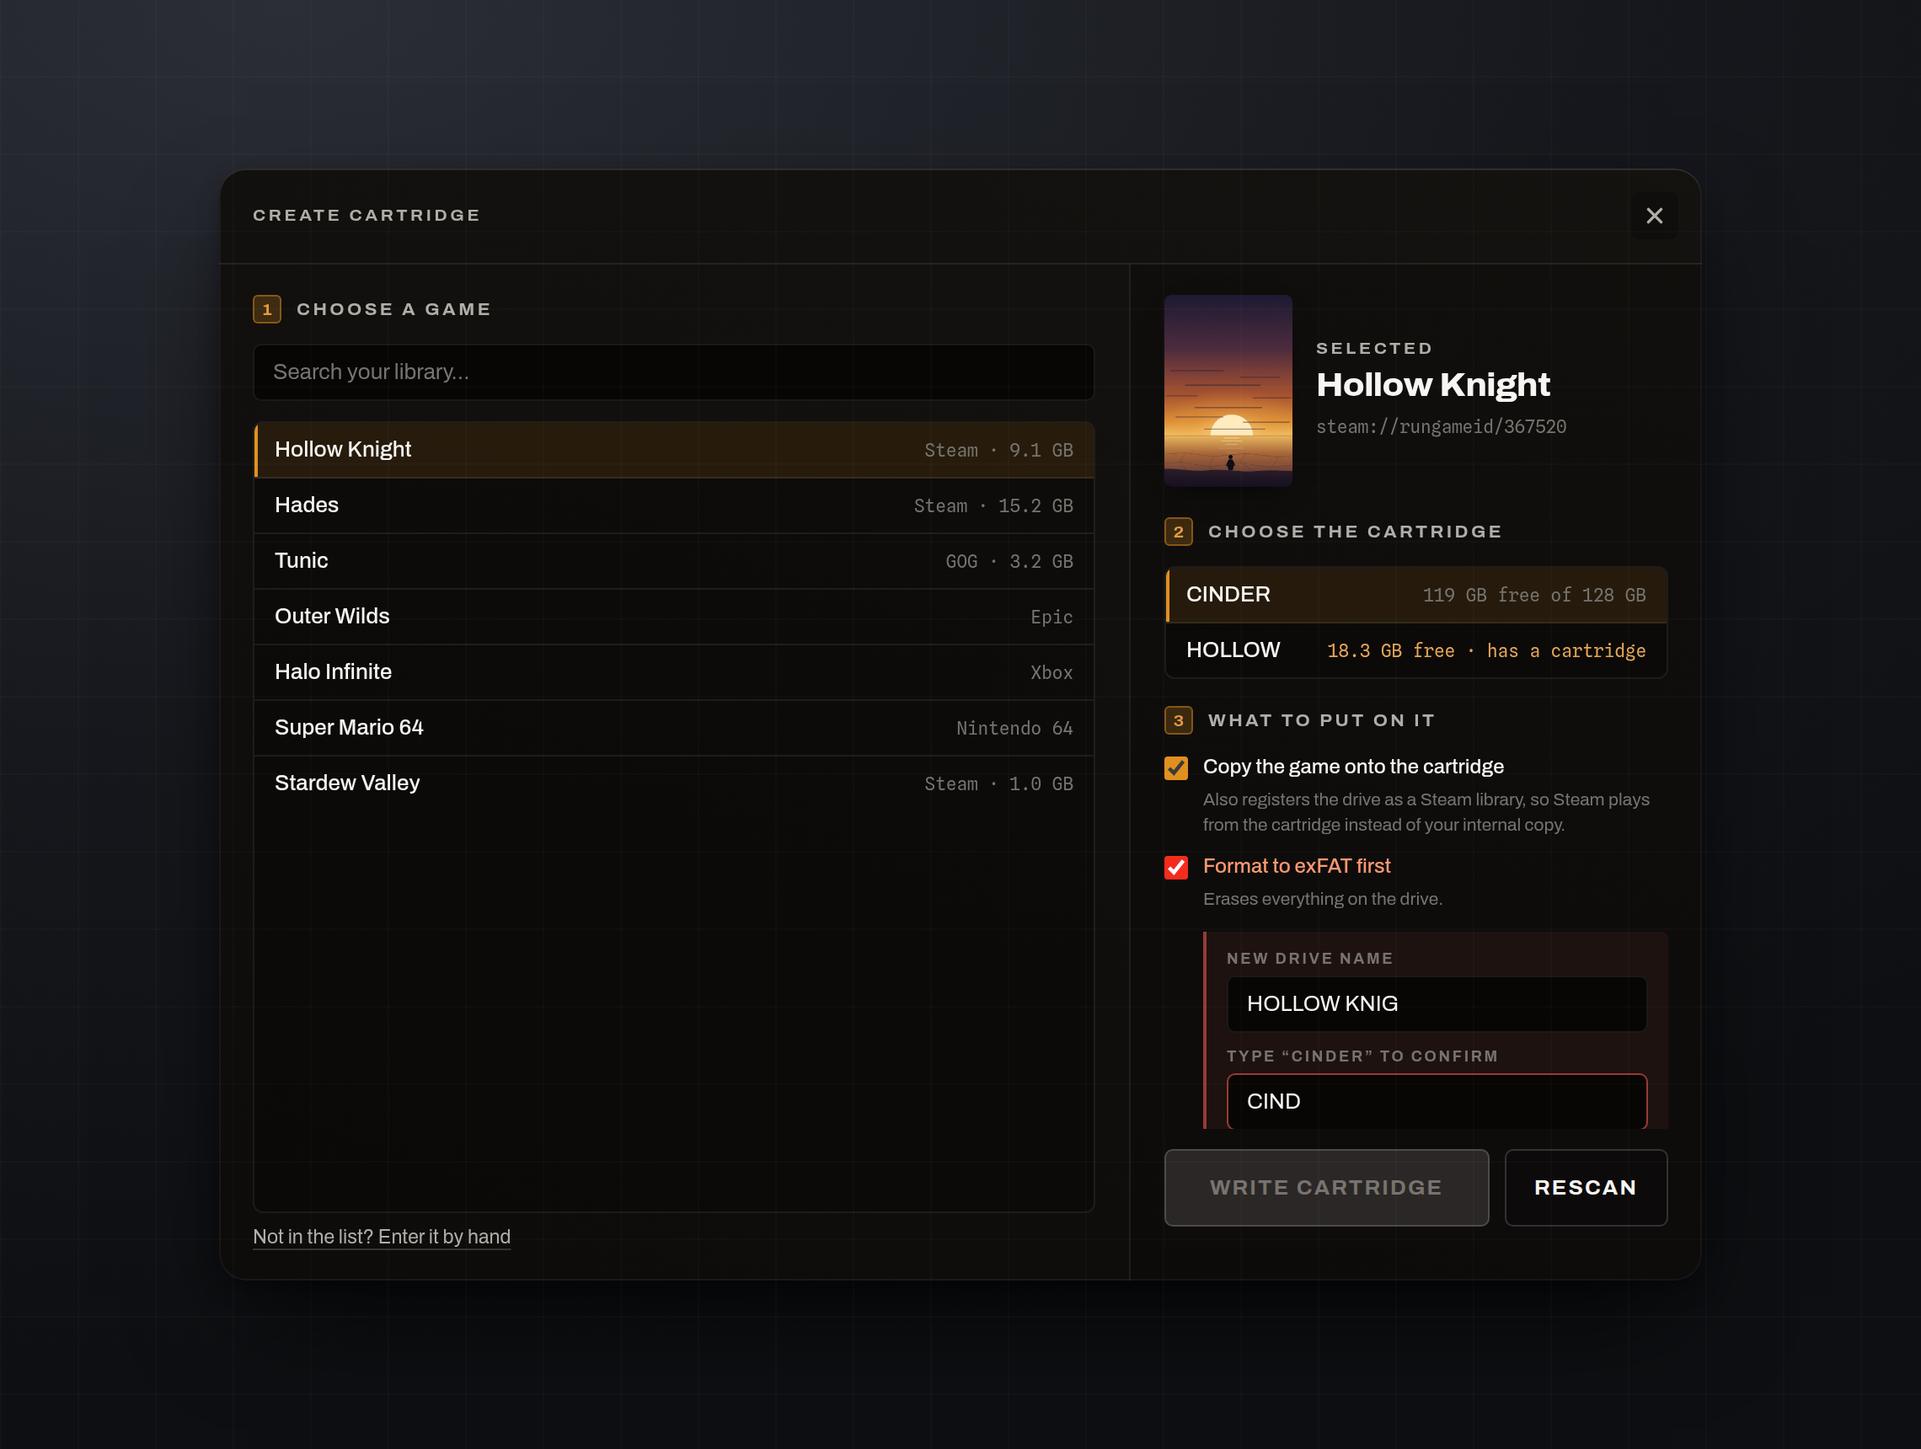
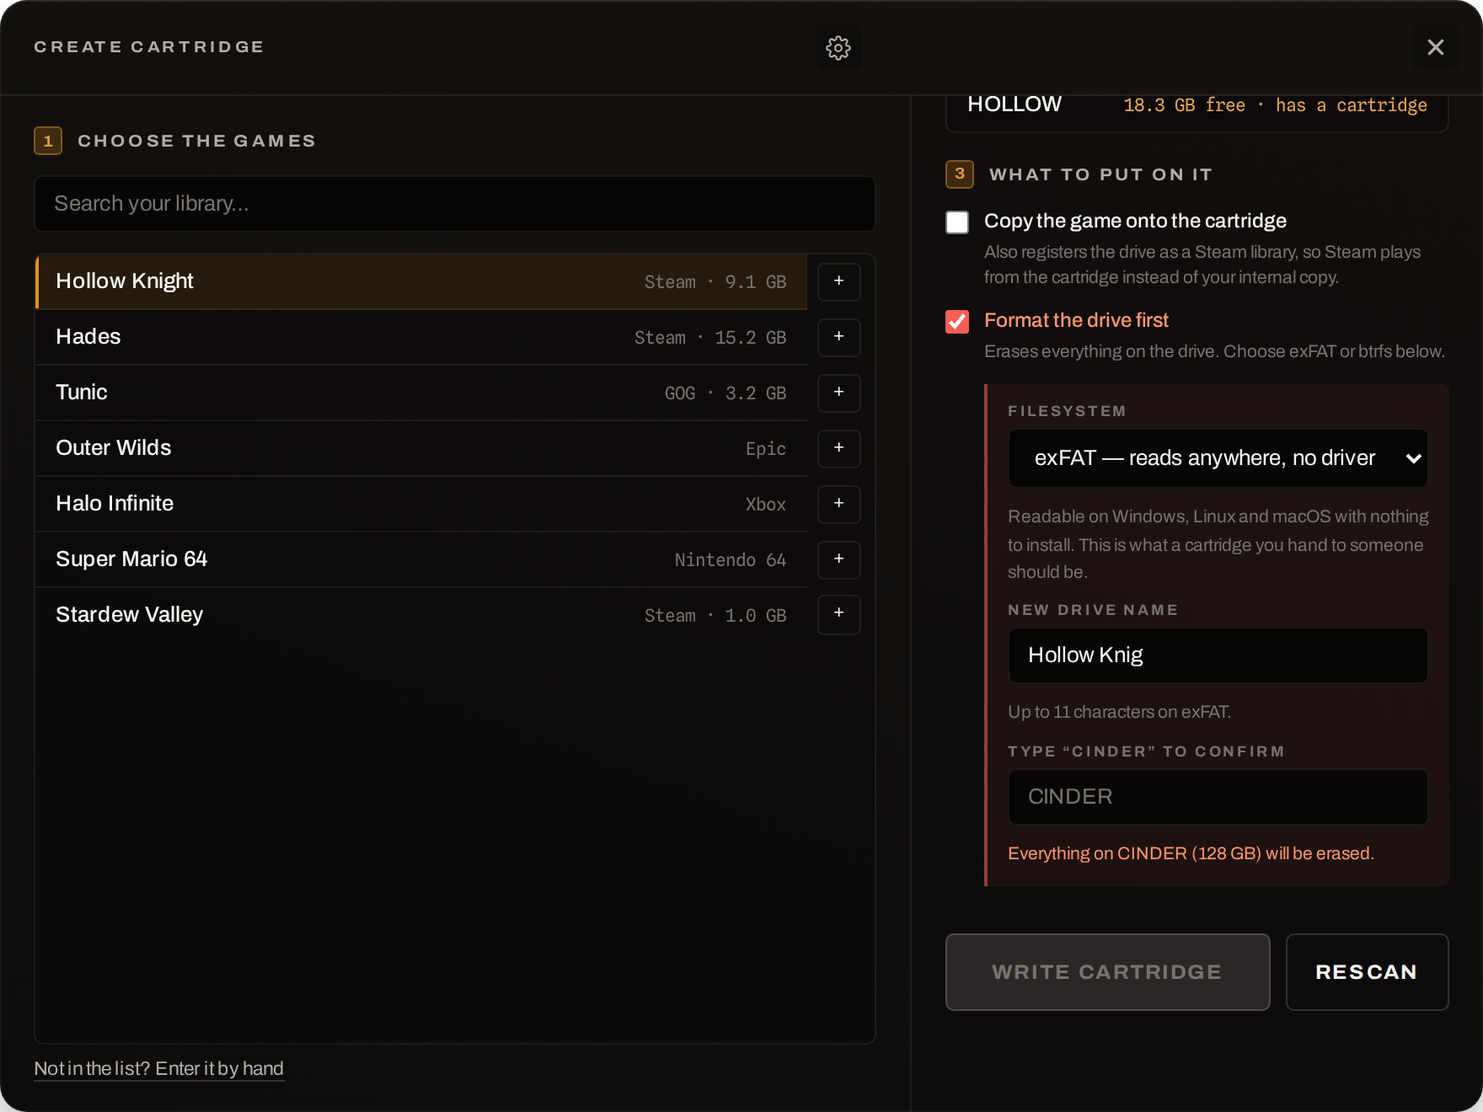
exFAT is the default again; btrfs is for enthusiasts
A cartridge is meant to be plugged into whatever machine is in front of you,
and only exFAT is readable everywhere with nothing to install. btrfs needs
WinBtrfs — a third-party kernel driver — before Windows can read it at all,
so a btrfs cartridge only opens on machines that have been prepared for it.

Its two benefits are also thinner than they sound here: TRIM only reaches
the drive when the USB bridge speaks UASP and passes UNMAP through, which
many enclosures do not, and game data is already compressed, so zstd buys
single-digit percentages for CPU on every read. A cartridge is written once
and read for years, which is the workload flash wear cares least about.

btrfs stays available, chosen deliberately, with the wizard saying plainly
what it costs.

The drive name follows the filesystem, which is what makes the choice
visible: default_label_for() keeps within the chosen filesystem's own limit,
so "Hollow Knight" becomes "Hollow Knig" on exFAT's 11 characters and stays
whole on btrfs. The wizard mirrors that — the field's maxlength and hint
follow the picker, and a name that was typed is never overwritten by
switching filesystem, only trimmed if the new one cannot hold it.

check_label() now validates against the default filesystem, the strict one,
so a label it accepts works on either.

Claude-Session: https://claude.ai/code/session_01UShoVm3hB7q7q97ejb4FtL

diff --git a/tauri-ui/app/src/create.js b/tauri-ui/app/src/create.js
@@ -57,6 +57,8 @@ const el = {
   optFormat: document.getElementById("opt-format"),
   formatFields: document.getElementById("format-fields"),
   formatFilesystem: document.getElementById("format-filesystem"),
+  filesystemHint: document.getElementById("filesystem-hint"),
+  labelHint: document.getElementById("label-hint"),
   formatLabel: document.getElementById("format-label"),
   formatConfirm: document.getElementById("format-confirm"),
   formatWarning: document.getElementById("format-warning"),
@@ -106,6 +108,8 @@ let building = false;
 /** Candidates for what Play should start, when copying a non-Steam game. */
 let exeCandidates = [];
 let selectedCoverSource = null;
+/** True while the drive name is the one we derived, not one that was typed. */
+let labelIsOurs = true;
 /** What the user has switched on. Offline until they say otherwise. */
 let settings = { steamgriddbEnabled: false, steamgriddbApiKey: "" };
 /** Artwork chosen for the collection: { path, preview }. */
@@ -667,8 +671,25 @@ function refreshFormatFields() {
       : "Choose a drive first.";
   }
 
-  if (!el.formatLabel.value) {
-    el.formatLabel.value = defaultLabel(intent()?.title ?? "");
+  const filesystem = el.formatFilesystem.value;
+  el.filesystemHint.textContent =
+    filesystem === "btrfs"
+      ? "Windows cannot read btrfs without WinBtrfs installed, so this cartridge will only open on machines that have it. Choose exFAT if it is going anywhere."
+      : "Readable on Windows, Linux and macOS with nothing to install. This is what a cartridge you hand to someone should be.";
+
+  // The name field follows the filesystem: exFAT allows 11 characters, btrfs
+  // has room for the whole title.
+  const limit = filesystem === "btrfs" ? 64 : 11;
+  el.formatLabel.maxLength = limit;
+  el.labelHint.textContent = `Up to ${limit} characters on ${formatFilesystemLabel(filesystem)}.`;
+
+  if (!el.formatLabel.value || labelIsOurs) {
+    el.formatLabel.value = defaultLabel(intent()?.title ?? "", filesystem);
+    labelIsOurs = true;
+  } else if (el.formatLabel.value.length > limit) {
+    // Switching to the stricter filesystem must not leave a name it will
+    // refuse in a field the user can no longer see the end of.
+    el.formatLabel.value = el.formatLabel.value.slice(0, limit).trim();
   }
 }
 
@@ -676,15 +697,15 @@ function formatFilesystemLabel(filesystem) {
   return filesystem === "exfat" ? "exFAT" : "btrfs";
 }
 
-/** Mirrors create.rs's default_label so the field starts where it would. */
-function defaultLabel(title) {
+/** Mirrors create.rs's default_label_for so the field starts where it would. */
+function defaultLabel(title, filesystem) {
+  const limit = filesystem === "btrfs" ? 64 : 11;
   const cleaned = title
     .replace(/[^A-Za-z0-9]+/g, " ")
     .trim()
-    .slice(0, 11)
-    .trim()
-    .toUpperCase();
-  return cleaned || "CARTRIDGE";
+    .slice(0, limit)
+    .trim();
+  return cleaned || "Cartridge";
 }
 
 /* -------------------------------------------------------------- SteamGridDB */
@@ -1127,9 +1148,17 @@ el.optFormat.addEventListener("change", () => {
   refreshOptions();
   refreshCreateButton();
 });
-el.formatFilesystem.addEventListener("change", refreshCreateButton);
+el.formatFilesystem.addEventListener("change", () => {
+  refreshFormatFields();
+  refreshCreateButton();
+});
+
 el.formatConfirm.addEventListener("input", refreshCreateButton);
-el.formatLabel.addEventListener("input", refreshCreateButton);
+el.formatLabel.addEventListener("input", () => {
+  // Once it has been typed in, changing the filesystem must not overwrite it.
+  labelIsOurs = false;
+  refreshCreateButton();
+});
 el.create.addEventListener("click", writeCartridge);
 el.rescan.addEventListener("click", async () => {
   status("Rescanning…");
@@ -1291,7 +1320,7 @@ async function demoInvoke(command, args) {
         autorunWritten: true,
         icon: null,
         formatted: args.request.formatDrive,
-        formattedFilesystem: args.request.formatFilesystem || "btrfs",
+        formattedFilesystem: args.request.formatFilesystem || "exfat",
         gameCopied: args.request.copyGame,
         bytesCopied: args.request.copyGame ? 9_106_886_656 : 0,
         registeredWithSteam: args.request.copyGame && Boolean(args.request.appId),

diff --git a/tauri-ui/app/create.html b/tauri-ui/app/create.html
@@ -158,7 +158,7 @@
             <input id="opt-format" type="checkbox" />
             <span class="opt__body">
               <span class="opt__label">Format the drive first</span>
-              <span class="opt__hint">Erases everything on the drive. Choose btrfs or exFAT below.</span>
+              <span class="opt__hint">Erases everything on the drive. Choose exFAT or btrfs below.</span>
             </span>
           </label>
 
@@ -166,15 +166,17 @@
             <label class="field">
               <span class="field__label">Filesystem</span>
               <select id="format-filesystem">
-                <option value="btrfs">btrfs (best for NVMe cartridges)</option>
-                <option value="exfat">exFAT (best for broad removable-media compatibility)</option>
+                <option value="exfat" selected>exFAT — reads anywhere, no driver</option>
+                <option value="btrfs">btrfs — TRIM and compression, Linux only unless WinBtrfs is installed</option>
               </select>
             </label>
+            <p class="field__hint" id="filesystem-hint"></p>
             <label class="field">
               <span class="field__label">New drive name</span>
               <input id="format-label" type="text" maxlength="11" autocomplete="off"
                      spellcheck="false" />
             </label>
+            <p class="field__hint" id="label-hint"></p>
             <label class="field">
               <span class="field__label" id="confirm-label">Type the current name to confirm</span>
               <input id="format-confirm" type="text" autocomplete="off" spellcheck="false"

diff --git a/core/src/format.rs b/core/src/format.rs
@@ -1,4 +1,4 @@
-//! Formatting a drive to btrfs or exFAT.
+//! Formatting a drive to exFAT or btrfs.
 //!
 //! This is the only code in the project that destroys data, so it is built to
 //! refuse rather than to succeed. Four things must all hold before a single
@@ -10,10 +10,20 @@
 //!   3. the caller echoed the drive's current label back exactly;
 //!   4. formatting was explicitly asked for, per cartridge. It is never implied.
 //!
-//! btrfs stays the default because it supports TRIM (discard=async mount option)
-//! and transparent zstd compression, which meaningfully improve the lifespan and
-//! effective capacity of NVMe drives. exFAT remains available for broader
-//! removable-media compatibility.
+//! **exFAT is the default**, because the point of a cartridge is that it works
+//! in whatever machine it is plugged into: Windows, Linux and macOS all read it
+//! with no driver to install.
+//!
+//! btrfs is offered for people who want it — it brings TRIM (`discard=async`)
+//! and transparent zstd compression — but it is a deliberate choice, not a
+//! default. Windows cannot read btrfs without [WinBtrfs], a third-party kernel
+//! driver, and a cartridge that needs a driver installed first is not really a
+//! cartridge. The two headline benefits are also thinner than they look here: a
+//! USB bridge only passes TRIM through when it speaks UASP and honours UNMAP,
+//! and game data is already compressed, so zstd buys single-digit percentages
+//! for CPU on every read.
+//!
+//! [WinBtrfs]: https://github.com/maharmstone/btrfs
 
 use std::path::Path;
 use std::process::Command;
@@ -27,12 +37,13 @@ const EXFAT_MAX_LABEL: usize = 11;
 #[serde(rename_all = "lowercase")]
 pub enum Filesystem {
     #[default]
-    Btrfs,
     Exfat,
+    Btrfs,
 }
 
 impl Filesystem {
-    fn label_limit(self) -> usize {
+    /// Longest volume label this filesystem will take.
+    pub fn label_limit(self) -> usize {
         match self {
             Self::Btrfs => BTRFS_MAX_LABEL,
             Self::Exfat => EXFAT_MAX_LABEL,
@@ -84,7 +95,7 @@ impl std::fmt::Display for FormatError {
             FormatError::ToolMissing(t) => write!(
                 f,
                 "{t} is not installed, so the drive cannot be formatted here. \
-                 Format it to btrfs yourself and run the wizard again."
+                 Format it yourself and run the wizard again."
             ),
             FormatError::Failed(m) => write!(f, "Formatting failed: {m}"),
         }
@@ -120,9 +131,12 @@ pub fn check_label_for(filesystem: Filesystem, label: &str) -> Result<String, Fo
     Ok(trimmed.to_string())
 }
 
-/// Validate a proposed btrfs volume label.
+/// Validate a proposed volume label against the default filesystem.
+///
+/// That is exFAT, whose 11-character limit is the strict one, so a label this
+/// accepts is usable whichever filesystem the cartridge ends up with.
 pub fn check_label(label: &str) -> Result<String, FormatError> {
-    check_label_for(Filesystem::Btrfs, label)
+    check_label_for(Filesystem::default(), label)
 }
 
 /// Describe what formatting `path` would destroy, refusing anything ineligible.
@@ -251,7 +265,10 @@ fn run_format(plan: &FormatPlan, filesystem: Filesystem, label: &str) -> Result<
 
     // Format-Volume needs administrator, so it is elevated on its own rather
     // than requiring the whole wizard to run as admin.
-    // WinBtrfs (https://github.com/maharmstone/btrfs) must be installed.
+    //
+    // exFAT is built into Windows. btrfs is not: it needs WinBtrfs
+    // (https://github.com/maharmstone/btrfs) installed first, which is why it
+    // is an option here rather than the default.
     let script = format!(
         "$ErrorActionPreference='Stop'; \
          Format-Volume -DriveLetter {} -FileSystem {} -NewFileSystemLabel '{}' \
@@ -465,5 +482,17 @@ mod tests {
         assert!(text.contains("CINDER"), "{text}");
         // Case matters, so the message has to show both.
         assert!(text.contains("cinder"), "{text}");
+    }
+
+    #[test]
+    fn the_default_filesystem_is_the_one_that_works_everywhere() {
+        // A cartridge is meant to be plugged into whatever is in front of you,
+        // and only exFAT is readable everywhere without installing a driver.
+        assert_eq!(Filesystem::default(), Filesystem::Exfat);
+        // So the default label check is the strict one, and a label that passes
+        // it is usable on either filesystem.
+        assert!(check_label(&"A".repeat(11)).is_ok());
+        assert!(check_label(&"A".repeat(12)).is_err());
+        assert!(check_label_for(Filesystem::Btrfs, &"A".repeat(12)).is_ok());
     }
 }

diff --git a/core/src/create.rs b/core/src/create.rs
@@ -390,13 +390,11 @@ pub fn create_cartridge(
 
     // ---- 1. Format ------------------------------------------------------
     if request.format_drive {
-        let filesystem = request
-            .format_filesystem
-            .unwrap_or(format::Filesystem::Btrfs);
+        let filesystem = request.format_filesystem.unwrap_or_default();
         let label = request
             .format_label
             .clone()
-            .unwrap_or_else(|| default_label(&title));
+            .unwrap_or_else(|| default_label_for(filesystem, &title));
         let confirmation = request.format_confirmation.clone().unwrap_or_default();
 
         progress(Progress {
@@ -977,8 +975,17 @@ fn wait_for_mount(root: &Path) {
     }
 }
 
-/// A default btrfs volume label derived from the title.
+/// A default volume name derived from the title, for the default filesystem.
 pub fn default_label(title: &str) -> String {
+    default_label_for(format::Filesystem::default(), title)
+}
+
+/// A default volume name derived from the title.
+///
+/// Kept within the chosen filesystem's own limit, which is what makes the
+/// difference visible: exFAT allows 11 characters, so *Hollow Knight* becomes
+/// *Hollow Knig*, while btrfs has room for the whole thing.
+pub fn default_label_for(filesystem: format::Filesystem, title: &str) -> String {
     let cleaned: String = title
         .chars()
         .map(|c| if c.is_ascii_alphanumeric() { c } else { ' ' })
@@ -987,7 +994,10 @@ pub fn default_label(title: &str) -> String {
         .collect::<Vec<_>>()
         .join(" ");
 
-    let truncated: String = cleaned.chars().take(64).collect();
+    // 64 is well inside btrfs's 256 and long enough for any game's name; a
+    // volume label the width of a sentence helps nobody.
+    let limit = filesystem.label_limit().min(64);
+    let truncated: String = cleaned.chars().take(limit).collect();
     let trimmed = truncated.trim().to_string();
     if trimmed.is_empty() {
         "Cartridge".to_string()
@@ -1575,18 +1585,38 @@ mod tests {
     }
 
     #[test]
-    fn derives_a_valid_btrfs_label_from_a_title() {
-        assert_eq!(default_label("Hollow Knight"), "Hollow Knight");
+    fn derives_a_label_the_chosen_filesystem_will_accept() {
+        use format::Filesystem;
+
+        // exFAT is the default, and its 11-character limit is the tight one.
+        assert_eq!(default_label("Hollow Knight"), "Hollow Knig");
         assert_eq!(default_label("Cinder & Salt"), "Cinder Salt");
         assert_eq!(default_label("!!!"), "Cartridge");
         assert_eq!(default_label(""), "Cartridge");
-        // Whatever it produces must pass the formatter's own check.
-        for title in ["Hollow Knight", "Cinder & Salt", "!!!", "", "A"] {
-            let label = default_label(title);
-            assert!(
-                format::check_label(&label).is_ok(),
-                "{title:?} gave unusable label {label:?}"
-            );
+
+        // btrfs has room for the whole name.
+        assert_eq!(
+            default_label_for(Filesystem::Btrfs, "Hollow Knight"),
+            "Hollow Knight"
+        );
+
+        // Whatever it produces must pass the formatter's own check, for the
+        // filesystem it was derived for.
+        for filesystem in [Filesystem::Exfat, Filesystem::Btrfs] {
+            for title in [
+                "Hollow Knight",
+                "Cinder & Salt",
+                "!!!",
+                "",
+                "A",
+                &"A".repeat(300),
+            ] {
+                let label = default_label_for(filesystem, title);
+                assert!(
+                    format::check_label_for(filesystem, &label).is_ok(),
+                    "{title:?} on {filesystem:?} gave unusable label {label:?}"
+                );
+            }
         }
     }
 }

diff --git a/README.md b/README.md
@@ -39,7 +39,7 @@ Surface tablets — in compact aluminium USB enclosures.
 |---|---|
 | **Drives** | 128 GB M.2 2230 NVMe |
 | **Enclosures** | ITGZ aluminium compact M.2 2230 case, USB 3.2 Gen 2 (10 Gbps), passive auto-cooling |
-| **Filesystem** | btrfs by default on NVMe cartridges for TRIM (discard=async) and zstd compression; exFAT is also available for broader removable-media compatibility. Windows requires [WinBtrfs](https://github.com/maharmstone/btrfs) only for btrfs. |
+| **Filesystem** | exFAT by default, so a cartridge works in whatever machine it is plugged into. btrfs is offered for people who want TRIM and compression and do not mind [WinBtrfs](https://github.com/maharmstone/btrfs) on Windows. |
 
 2230 is the right form factor for this: the drive plus enclosure is roughly the
 size of a USB stick, so a shelf of ten cartridges takes almost no room. 128 GB
@@ -257,19 +257,31 @@ system drive, you must type the drive's **current** name back exactly, and
 Write stays disabled until you have. The backend re-checks all of it — it never
 trusts the window's idea of where to write.
 
-The wizard now offers **btrfs** and **exFAT**:
+### Which filesystem
 
-- **btrfs** is the better fit for NVMe cartridges. TRIM (`discard=async`) helps
-  drive longevity, and transparent zstd compression (`compress=zstd`) can
-  stretch effective capacity on compressible game data. On Windows,
-  [WinBtrfs](https://github.com/maharmstone/btrfs) must be installed before a
-  btrfs cartridge can be read or written.
-- **exFAT** is the compatibility option. It is the better choice when the goal
-  is broad removable-media support rather than squeezing the most out of an NVMe
-  cartridge.
+**exFAT is the default, and it is the right answer for a cartridge you hand to
+someone.** Windows, Linux and macOS all read it with nothing to install, which
+is the entire point of a thing you carry between machines.
 
-On Linux the relevant mount options are set by the desktop environment or
-`/etc/fstab`.
+**btrfs is there for enthusiasts**, and it is a real choice with real costs:
+
+- It brings TRIM (`discard=async`) and transparent zstd compression
+  (`compress=zstd`).
+- Windows cannot read it at all without [WinBtrfs](https://github.com/maharmstone/btrfs),
+  a third-party kernel driver — so a btrfs cartridge only opens on machines you
+  have prepared.
+- Neither benefit is as large here as it sounds. TRIM only reaches the drive if
+  the USB bridge speaks UASP and passes UNMAP through, which many enclosures do
+  not; and game data is already compressed, so zstd typically buys single-digit
+  percentages in exchange for CPU on every read. A cartridge is also written
+  once and read for years, which is the workload flash wear cares least about.
+
+Pick btrfs if your cartridges live on Linux machines you control and you want
+the filesystem's other properties. Otherwise exFAT.
+
+The drive name follows the filesystem: exFAT allows 11 characters, btrfs has
+room for the whole title. On Linux the relevant mount options are set by the
+desktop environment or `/etc/fstab`.
 
 ## Cartridge format
 

diff --git a/tauri-ui/README.md b/tauri-ui/README.md
@@ -100,11 +100,13 @@ partial install cannot play.
 Covers are loaded one at a time as you select a game: base64ing a whole library
 into the webview at once would be tens of megabytes of IPC.
 
-The wizard can also format the cartridge to **btrfs** or **exFAT**, copy a
+The wizard can also format the cartridge to **exFAT** or **btrfs**, copy a
 Steam game onto it and register it in Steam's `libraryfolders.vdf`, and write an
 `autorun.inf` so Explorer shows the game's name instead of "Removable Disk".
-Formatting is opt-in and gated on typing the drive's current name back. btrfs is
-the NVMe-first option; exFAT is there for broader removable-media compatibility.
+Formatting is opt-in and gated on typing the drive's current name back. exFAT is
+the default, because it reads on any machine with no driver to install; btrfs is
+there for enthusiasts who want TRIM and compression and can live with needing
+WinBtrfs on Windows.
 
 ## Icon
 
@@ -212,7 +214,7 @@ core/src/
 ├── steam.rs       Steam manifests and library folders
 ├── steamlib.rs    copy a game, register/unregister with Steam
 ├── drives.rs      which drives may be written to
-├── format.rs      btrfs / exFAT formatting, behind confirmation
+├── format.rs      exFAT / btrfs formatting, behind confirmation
 ├── autorun.rs     autorun.inf, drive name and icon
 └── create.rs      the build pipeline
 ```
